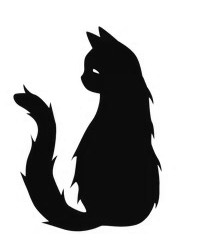
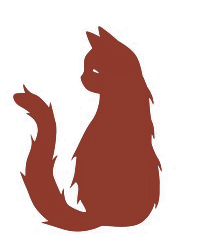
修复眼睛条wx显示问题，更新留言

diff --git a/app/page.tsx b/app/page.tsx
@@ -92,6 +92,10 @@ const fanPhrases: FanPhrase[] = [
   { text: "温柔且坚韧 珍视真心\n——From 长庚星", tier: 0, color: "#e37795" },
   { text: "爱上了\n——From HG", tier: 0, color: "#c66a84" },
   { text: "反转魅力，每一面都是魅力\n——From 16mm_nebula tale", tier: 0, color: "#fa99b4" },
+  { text: "爱你是本能呀小洋\n——From 小江", tier: 0, color: "#e7a0b4" },
+  { text: "洋洋好温暖，像是全身都冒着粉色泡泡\n——From 浪味仙地", tier: 0, color: "#ffb7cb" },
+  { text: "没有什么人生建议，妹妹\n——From WEEKEND", tier: 0, color: "#c66a84" },
+  { text: "爱你是本能～专属洋洋\n——From momo", tier: 0, color: "#9f3b57" },
 
   { text: "心思细腻，大大咧咧，感性，大方，傻头傻脑\n——From hi-my.🍟", tier: 1, color: "#D38A96" },
   { text: "鸡毛小雪  猪毛微雪\n——From 树的历险记", tier: 1, color: "#D27B8B" },
@@ -133,6 +137,10 @@ const fanPhrases: FanPhrase[] = [
   { text: "很感性很温暖，喜欢耍宝但是也很会照顾人\n——From glmm", tier: 1, color: "#ffbdd0" },
   { text: "真诚细腻又温柔的一个男生，教会我更好的去爱人。\n——From 咩咩坨_Elowen", tier: 1, color: "#f45b86" },
   { text: "虽然常常可惜没有早点能遇见，但依然庆幸我们还是遇见了\n——From 都会好的", tier: 1, color: "#efbdcb" },
+  { text: "这个世界是美好的，希望洋咪的世界能永远善良、美好。\n——From KK立刻有", tier: 1, color: "#f3a9b6" },
+  { text: "他虽然有的时候大大咧咧\n但是他是个内心非常敏感的小咪咪\n——From 初日泡芙酒", tier: 1, color: "#D27B8B" },
+  { text: "一个直播切片，\n好像说怎么像他这样豁达（应该是这个词吧）他说都是装的，\n感觉这样的他真实又有魅力\n——From 京畿道的南风宥点冷", tier: 1, color: "#f8cbd3" },
+  { text: "我好喜欢他把看演唱会说成一起约会啊\n——From 京畿道的南风宥点冷", tier: 1, color: "#b64f62" },
 
   { text: "外表高冷有距离感，实则底色温柔又温暖，\n强烈的反差感对我来说有着致命吸引力\n——From +0", tier: 2, color: "#F3DFE2" },
   { text: "我想对洋洋说：\n请继续做个浪漫的疯子吧,请继续笑着爱这个世界吧，\n首先你要快乐,其次都是其次！\n——From 卡拉", tier: 2, color: "#F5E7E9" },
@@ -162,6 +170,13 @@ const fanPhrases: FanPhrase[] = [
   { text: "感觉在于一些理想主义什么的？\n其实对他们三个都挺佩服，\n但是最注意到他的是他们感同身受的那个舞台他哭了，\n以前一直以为舞台必须是完美的，但他哭到哽咽真的很触动我，\n感觉到了一些灵魂的共鸣，可以感受到他是真的爱舞台，\n加上自己身处的环境身边的人好像都没什么理想，\n但我真的是会为了梦想而痛哭的人，所以会很被吸引\n——From 暮芫", tier: 2, color: "#c7607d" },
   { text: "喜欢平时闹腾抽风搞笑的样子，也喜欢私底下安静细腻温柔敏感的样子。\n不隐藏的爱意，埋藏心底的委屈，感性的瞬间，自律养生的日常。\n像一位通透的入世者，清醒但不世俗，\n总之 木子洋全 肯定。\n——From 聊待", tier: 2, color: "#f45b86" },
   { text: "很温柔细腻的人，总是能顾及到身边的人，把身边人照顾的很好，\n巡演南京场的时候抽扭蛋玩游戏轮到另外两人给他出题,\n他就带着大家玩应援棒完全没有冷场，\n有他在总是感觉很安心,希望 木子洋 的身边也有一个木子洋。\n虽然大家都说他私下里很安静话少,但是他还是愿意为了粉丝搞氛围做效果逗大家开心！\n而且他不笑的时候就帅帅酷酷的,笑起来就萌萌的,不论是性格还是长相都是很有魅力的一枚！\n——From 🐟都被海风吹走了吧", tier: 2, color: "#E78695" },
+  { text: "洋洋是那种看起来大大咧咧很爱耍宝的，\n实则心思细腻得能承接住每个人的情绪。\n他很真诚，你可以从他的言行中感受出他的热情和他捧出的真心。\n希望他可以多多保重身体，对自己好一些\n——From xcxcxc_", tier: 2, color: "#eda1af" },
+  { text: "还记得我和洋洋的初相识是个超级漂亮的双人舞台女位，\n当时满心想法是怎么这么帅气漂亮，跳舞怎么能这么好看！\n入坑之后越了解越觉得洋洋是个很纯粹的人，\n他待人真诚，心思细腻，性格底色极其善良！\n最大的感悟就是温柔的具像化是木子洋！\n——From 今天要睡觉", tier: 2, color: "#D27B8B" },
+  { text: "对洋的喜欢逐渐具象化，喜欢他的幽默，喜欢他搞笑，\n喜欢他自带爱人气息，喜欢他的笑容，喜欢他笑起来弯弯的眉眼，\n喜欢他不服输的劲，喜欢他的小傲娇，\n喜欢他护短，真的喜欢这个阳光明媚的少年，\n就是感觉如果被他爱着感觉会很幸福，做他的粉丝也很幸福💗💗\n——From 忧郁冰激凌", tier: 2, color: "#c66275" },
+  { text: "温柔是他最永恒的底色，在我眼里他是\n一个内心柔软、需要空间独处，会向内自洽，有责任感的哥哥\n他就是那一棵樱花树，人人见之向往，人人因在他身边而变得更美好，\n然而他只是他，他就是美好本身。\n不问得失只求对错，是坚定而脚踏实地的理想主义者，是悲观主义中的乐天派，\n是矛盾而强大的李振洋，是我行走在前行路上举着蜡烛将我照亮的同行者。\n我因为他点亮了自己的灯，成为了更好的自己，\n所以木子洋全肯定，李振洋全肯定，不是说说而已。\n你已经成为了我人生中的一部分爱你洋洋\n——From 汐汐（小Q）", tier: 2, color: "#D27B8B" },
+  { text: "刚认识的时候觉得台风好好啊，好松弛，越了解越发现性格真的好，\n温柔，有格局，有爱心，有解决问题的能力，很靠谱的感觉，\n但是我最喜欢的是他至今还保留的孩子气的一面，\n要知道在当今这个现实的世界里，别说在娱乐圈，\n就是身边的人都很少还有那么鲜活的本色了，人人都像个人机，\n而洋的这一份活人感难能可贵，\n希望洋洋不被任何事情影响，永远保留那一份鲜活开心下去\n——From 熊猫", tier: 2, color: "#b95365" },
+  { text: "有一年决定去外地发展，决定的很仓促，是8月出发的，\n那时候人生地不熟，工作不顺利，辗转一番之后已经是初秋了，\n半夜盖着薄被子被冻醒，突然就委屈了起来，\n当时想着，要是有个人能温暖我该多好，\n就这样，洋洋入了我的梦，梦里他从后面抱着我，\n用胸膛温暖我，那种被全身包裹的安全感太真实了。\n虽然是个梦，但是我一直记得，他总让我安心。\n我喜欢看他耍宝，喜欢听他说话，喜欢听他唱歌，喜欢他温柔的喊我们妹妹。\n——From 申生慢~", tier: 2, color: "#ffc3ce" },
+  { text: "其实感觉私下的他很像自家哥哥，沉稳永远会兜底，永远是后盾，\n但是也完全不会觉得沉闷，会找吃的，喜欢钓鱼，\n感觉跟他生活会特别有意思，会永远找新事物好玩的东西逗你\n——From 灵辰幻想_Aurora", tier: 2, color: "#f693a5" },
 ]
 
 // 各字号档位的取值范围（背景层用，偏小偏淡）

diff --git a/components/feline/HeroSection.tsx b/components/feline/HeroSection.tsx
@@ -244,9 +244,52 @@ export default function HeroSection({ onEggTrigger, scrollY }: HeroSectionProps)
 }
 
 function CatEyeVideo() {
+  const [isWeChat, setIsWeChat] = useState(false)
+  const [wechatReady, setWechatReady] = useState(false)
+
+  useEffect(() => {
+    // 检测微信环境
+    const ua = navigator.userAgent.toLowerCase()
+    const inWeChat = ua.includes("micromessenger")
+    setIsWeChat(inWeChat)
+
+    if (!inWeChat) return
+
+    // 微信内置浏览器需要等 WeixinJSBridgeReady 事件后才能可靠触发自动播放
+    const tryPlay = () => {
+      const video = document.getElementById("cat-eye-video") as HTMLVideoElement | null
+      if (video) {
+        video.play().catch(() => {
+          // 自动播放仍失败时，静默忽略，等待用户交互触发（见下方点击兜底）
+        })
+      }
+      setWechatReady(true)
+    }
+
+    // @ts-expect-error 微信注入的全局对象，标准环境下不存在
+    if (window.WeixinJSBridge) {
+      tryPlay()
+    } else {
+      document.addEventListener("WeixinJSBridgeReady", tryPlay, false)
+    }
+
+    return () => {
+      document.removeEventListener("WeixinJSBridgeReady", tryPlay)
+    }
+  }, [])
+
   return (
-    <div className="relative" style={{ width: 550, height: 200 }}>
-      {/* Ambient glow：在深色底上改用暖粉更浓郁的光晕，帮助视频边缘"融进"背景而不是漂浮在上面 */}
+    <div
+      className="relative"
+      style={{ width: 550, height: 200 }}
+      onClick={(e) => {
+        // 微信环境下点击兜底：万一自动播放仍未成功，用户点一下也能触发
+        if (!isWeChat) return
+        const video = e.currentTarget.querySelector("video")
+        video?.play().catch(() => {})
+      }}
+    >
+      {/* Ambient glow */}
       <div
         aria-hidden="true"
         className="absolute inset-0 rounded-full"
@@ -258,21 +301,49 @@ function CatEyeVideo() {
       />
 
       <video
+        id="cat-eye-video"
         autoPlay
         loop
         muted
         playsInline
+        // 微信 X5 内核专属属性，缺一不可，否则可能不触发内联自动播放
+        x5-playsinline="true"
+        webkit-playsinline="true"
+        x5-video-player-type="h5"
+        preload="auto"
         aria-label="猫探长眼部影像"
         className="absolute inset-0 h-full w-full object-contain"
-        style={{
-          filter: "brightness(1.15) contrast(1.1) drop-shadow(0 0 24px rgba(244,166,184,0.35))",
-          mixBlendMode: "screen",
-          maskImage: "radial-gradient(ellipse 68% 74% at center, #000 42%, rgba(0,0,0,0.55) 62%, transparent 92%)",
-          WebkitMaskImage: "radial-gradient(ellipse 68% 74% at center, #000 42%, rgba(0,0,0,0.55) 62%, transparent 92%)",
-        }}
+        style={
+          isWeChat
+            ? {
+                // 微信环境降级：去掉 mix-blend-mode + mask-image 组合，
+                // 改用更保守的方式呈现相近的融合效果，规避 X5 内核渲染异常导致视频不可见的问题
+                filter: "brightness(1.05) contrast(1.05)",
+                opacity: 0.92,
+              }
+            : {
+                filter: "brightness(1.15) contrast(1.1) drop-shadow(0 0 24px rgba(244,166,184,0.35))",
+                mixBlendMode: "screen",
+                maskImage: "radial-gradient(ellipse 68% 74% at center, #000 42%, rgba(0,0,0,0.55) 62%, transparent 92%)",
+                WebkitMaskImage: "radial-gradient(ellipse 68% 74% at center, #000 42%, rgba(0,0,0,0.55) 62%, transparent 92%)",
+              }
+        }
       >
         <source src="/eyes/eyes-web.mp4" type="video/mp4" />
       </video>
+
+      {/* 微信环境下用一层柔和的暗角遮罩模拟原来 mask-image 的收边效果，
+          用纯 CSS 渐变叠层代替对 video 元素的 CSS mask，兼容性更稳 */}
+      {isWeChat ? (
+        <div
+          aria-hidden="true"
+          className="pointer-events-none absolute inset-0"
+          style={{
+            background:
+              "radial-gradient(ellipse 68% 74% at center, transparent 55%, rgba(42,18,25,0.55) 78%, #2A1219 96%)",
+          }}
+        />
+      ) : null}
     </div>
   )
 }
